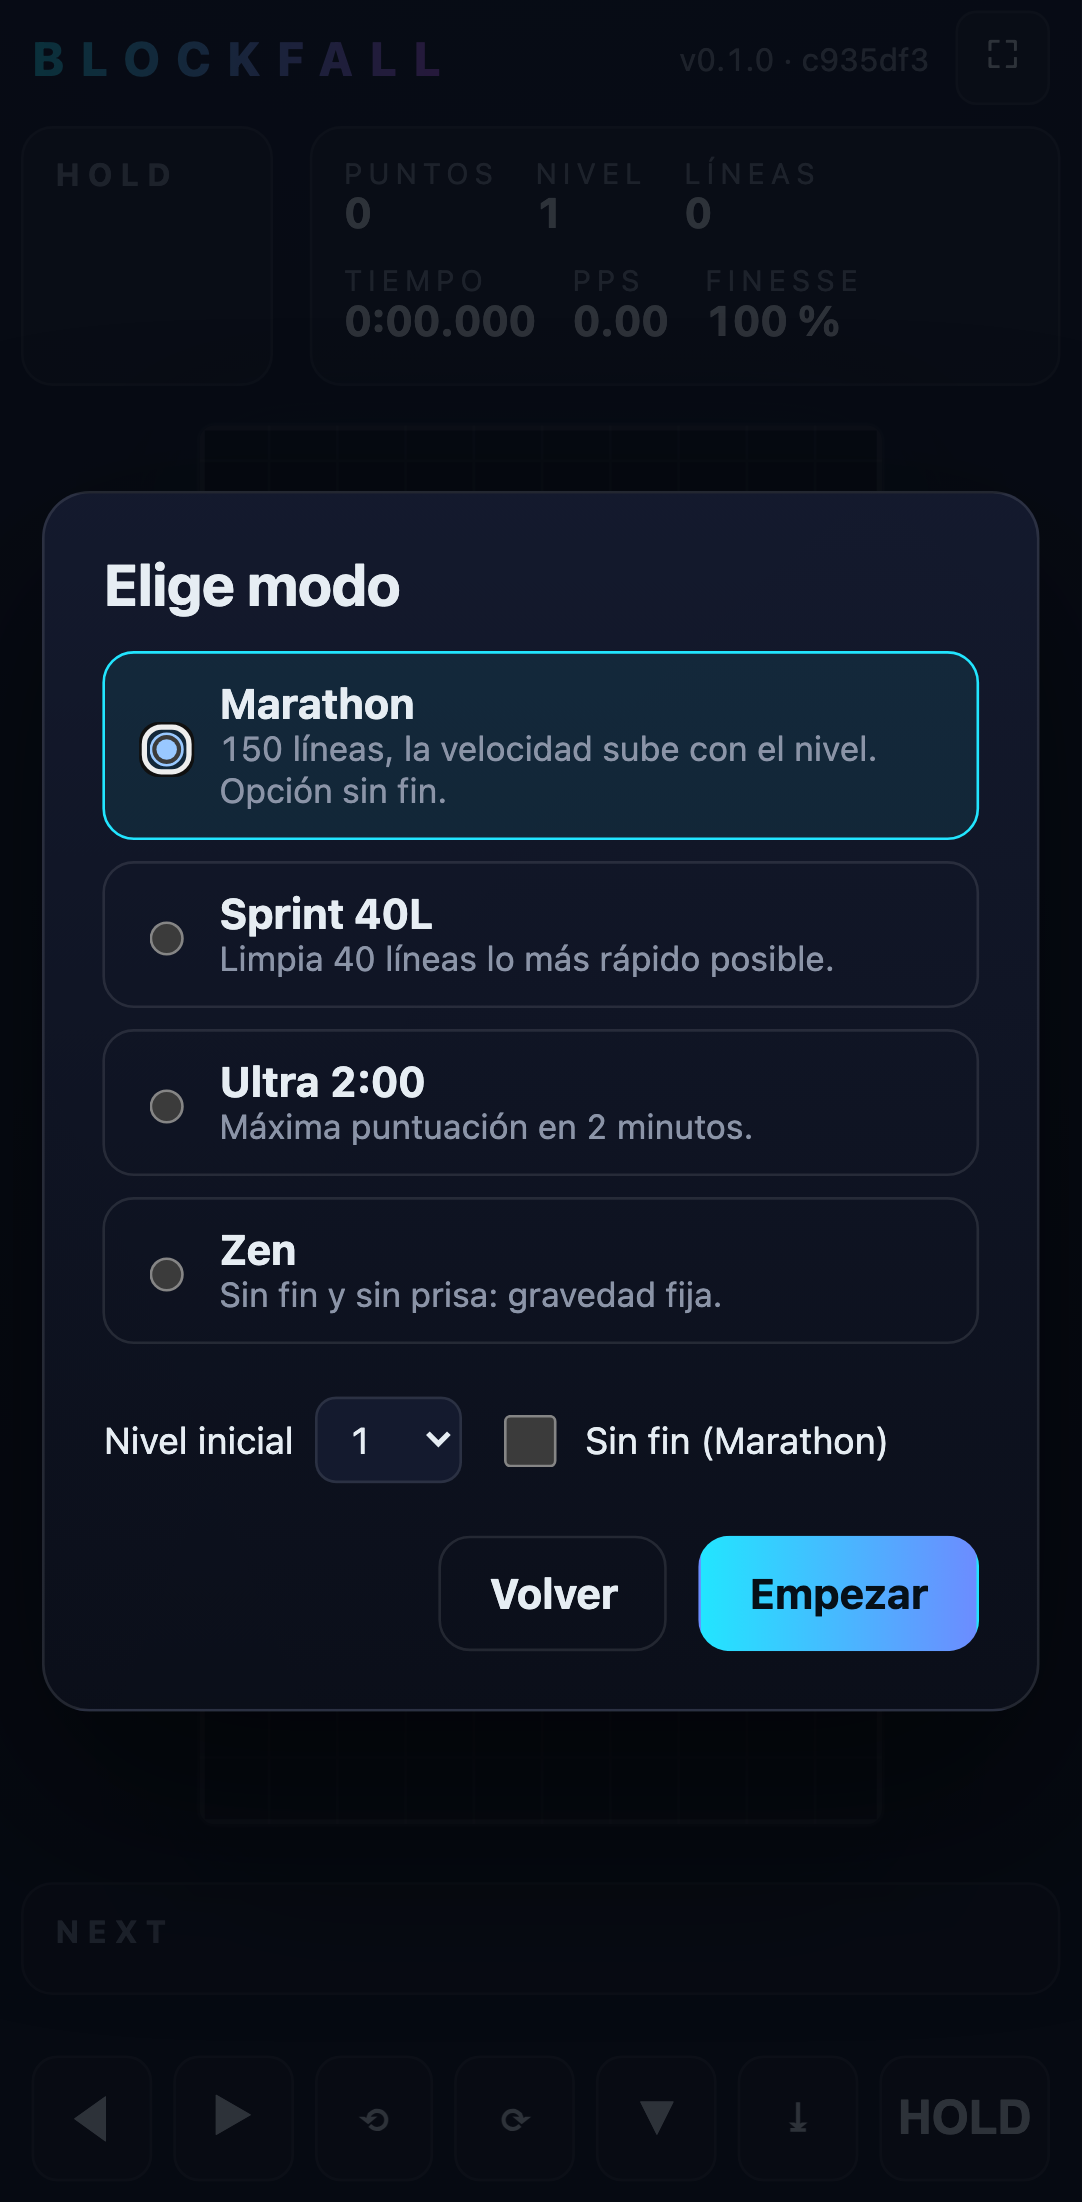
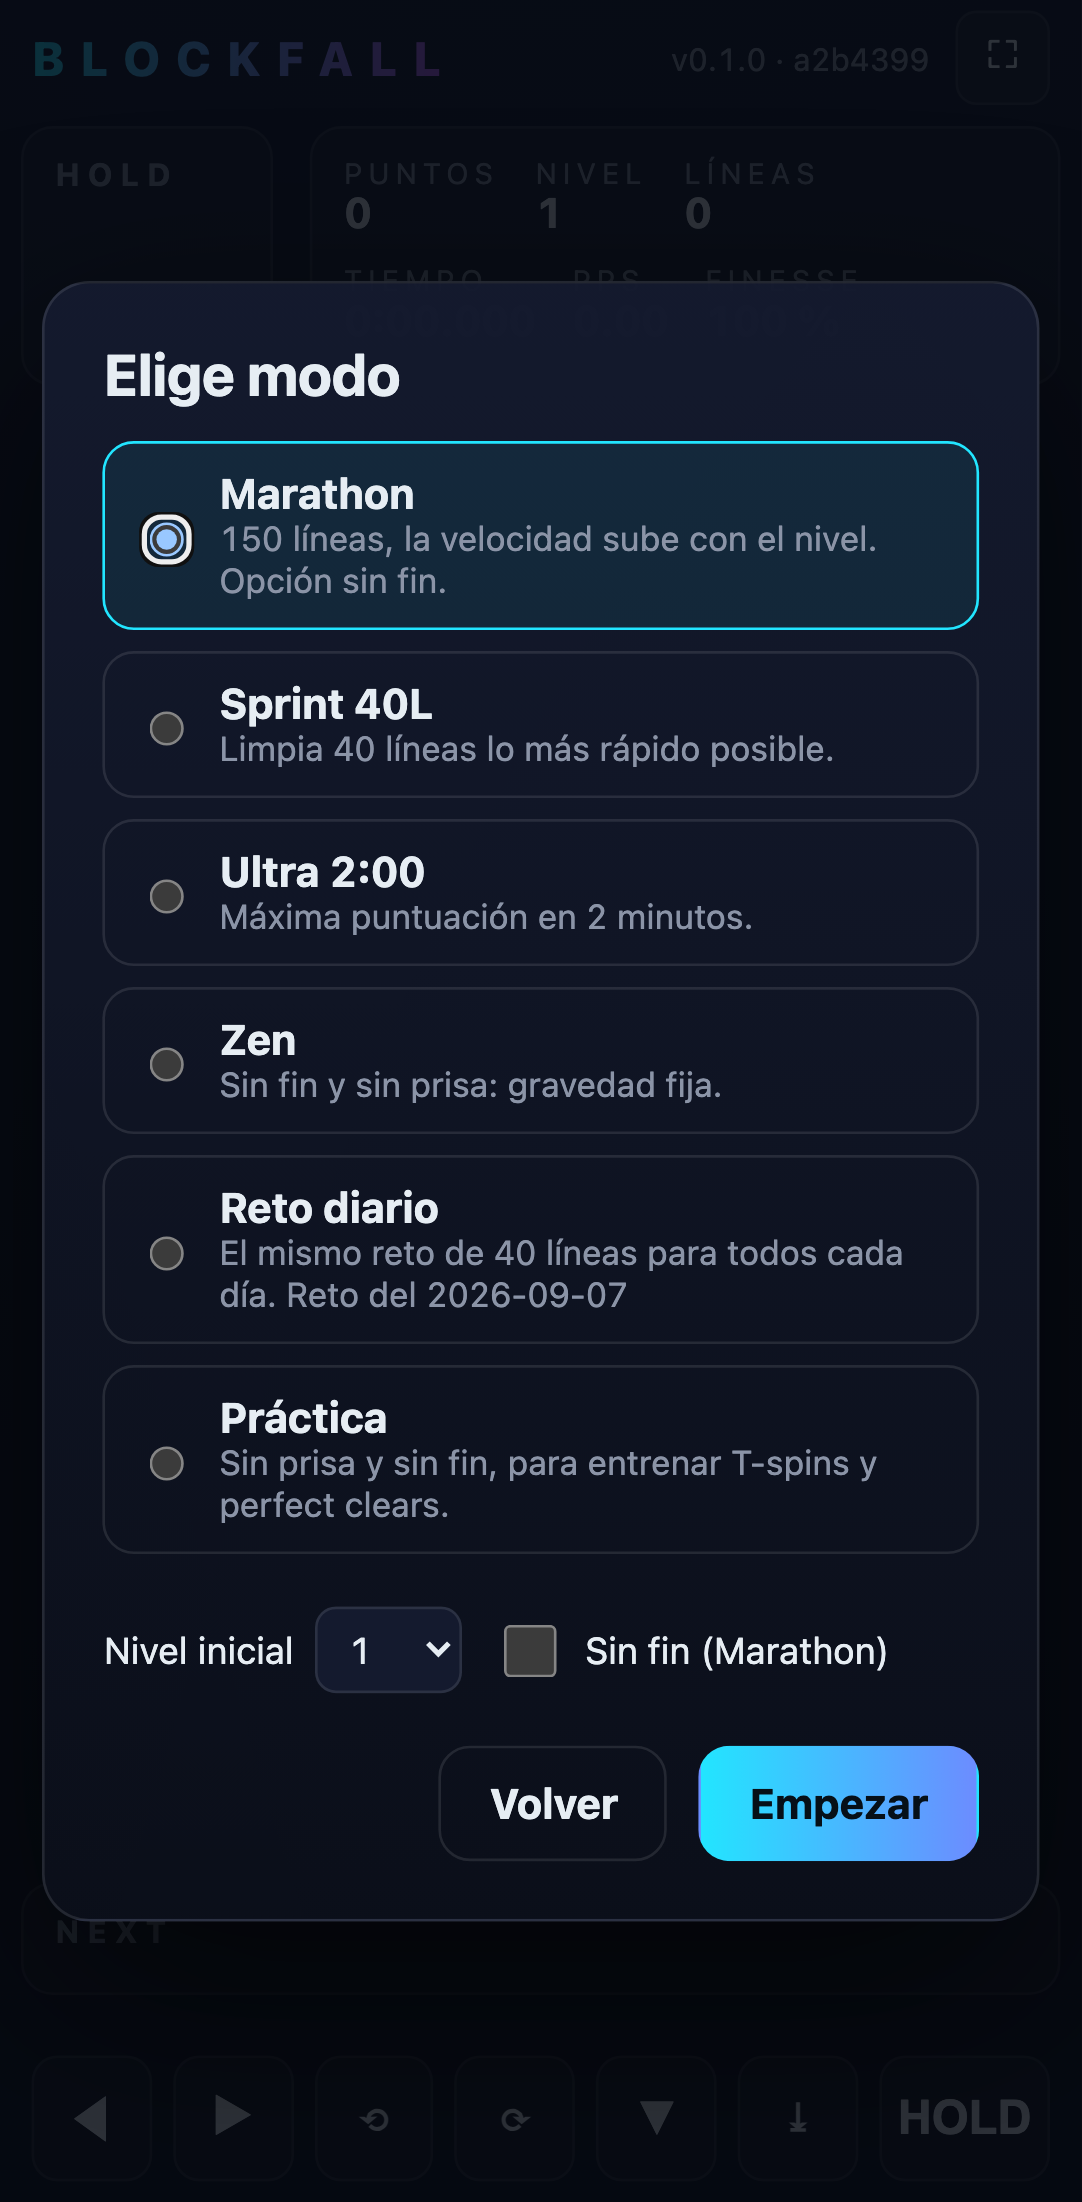
feat: modos de reto diario y práctica
- El reto diario deriva su semilla de la fecha local, así que todo el mundo juega
  la misma partida de 40 líneas ese día sin necesidad de servidor
- El modo práctica es sin fin y con velocidad constante, para entrenar giros
- Las opciones de nivel inicial y sin fin se ocultan en los modos que fijan reglas
- Las etiquetas de los modos pasan por el catálogo de traducciones

Claude-Session: https://claude.ai/code/session_012Xf4twi56DXxH5ehRwbYpP

diff --git a/src/app/app.ts b/src/app/app.ts
@@ -1,5 +1,5 @@
 import { Game } from '@/core/game';
-import { MODE_LABELS, type GameMode } from '@/core/rules';
+import { ALL_MODES, dailyLabel, dailySeed, type GameMode } from '@/core/rules';
 import type { GameEvent, RuleSet } from '@/core/types';
 import type { InputAction } from '@/game/handling';
 import { GameLoop } from '@/game/loop';
@@ -174,7 +174,11 @@ export class App {
       softDropFactor: st.rules.softDropFactor,
       ...(mode === 'sprint' ? {} : { lineClearDelayMs: st.rules.lineClearDelayMs }),
     };
-    const seed = seedOverride ?? (Date.now() ^ Math.floor(Math.random() * 0xffffffff)) >>> 0;
+    const seed =
+      seedOverride ??
+      (mode === 'daily'
+        ? dailySeed()
+        : (Date.now() ^ Math.floor(Math.random() * 0xffffffff)) >>> 0);
     this.session?.releaseAll();
     this.session = new Session({
       mode,
@@ -363,7 +367,7 @@ export class App {
     const row = (label: string, value: string): HTMLElement =>
       h('div', { className: 'result-row' }, h('span', {}, label), h('strong', {}, value));
     body.append(
-      row(t('results.mode'), MODE_LABELS[s.mode]),
+      row(t('results.mode'), t(`modes.${s.mode}`)),
       row(t('records.points'), state.score.toLocaleString(getLocale())),
       row(t('records.lines'), String(state.lines)),
       row(t('records.level'), String(state.level)),
@@ -557,26 +561,25 @@ export class App {
     const st = this.store.settings;
     const list = byId('mode-list');
     clear(list);
-    const modes: GameMode[] = ['marathon', 'sprint', 'ultra', 'zen'];
-    const descriptions: Record<GameMode, string> = {
-      marathon: t('modes.marathon.desc'),
-      sprint: t('modes.sprint.desc'),
-      ultra: t('modes.ultra.desc'),
-      zen: t('modes.zen.desc'),
-    };
+    const modes = ALL_MODES;
+    const describe = (mode: GameMode): string =>
+      mode === 'daily'
+        ? `${t('modes.daily.desc')} ${t('daily.today', { d: dailyLabel() })}`
+        : t(`modes.${mode}.desc`);
     for (const mode of modes) {
       const input = h('input', { type: 'radio', name: 'mode', value: mode });
       input.checked = st.game.mode === mode;
       input.addEventListener('change', () => {
         this.store.updateSettings((x) => (x.game.mode = mode));
+        this.updateModeOptions();
       });
       list.append(
         h(
           'label',
           { className: 'mode-card' },
           input,
-          h('span', { className: 'mode-name' }, MODE_LABELS[mode]),
-          h('span', { className: 'mode-desc' }, descriptions[mode]),
+          h('span', { className: 'mode-name' }, t(`modes.${mode}`)),
+          h('span', { className: 'mode-desc' }, describe(mode)),
         ),
       );
     }
@@ -595,18 +598,25 @@ export class App {
     endless.addEventListener('change', () => {
       this.store.updateSettings((x) => (x.game.endless = endless.checked));
     });
+    this.updateModeOptions();
+  }
+
+  /** El reto diario y la práctica fijan sus propias reglas, así que sus opciones se ocultan. */
+  private updateModeOptions(): void {
+    const mode = this.store.settings.game.mode;
+    const fixed = mode === 'daily' || mode === 'practice';
+    byId('mode-options').hidden = fixed;
   }
 
   private buildRecords(): void {
     const root = byId('records-body');
     clear(root);
-    const modes: GameMode[] = ['marathon', 'sprint', 'ultra', 'zen'];
-    for (const mode of modes) {
+    for (const mode of ALL_MODES) {
       const list = this.store.highscores(mode);
       const table = h(
         'table',
         { className: 'records-table' },
-        h('caption', {}, MODE_LABELS[mode]),
+        h('caption', {}, t(`modes.${mode}`)),
         h(
           'thead',
           {},

diff --git a/src/core/rules.ts b/src/core/rules.ts
@@ -18,7 +18,7 @@ export const DEFAULT_RULES: RuleSet = {
   goal: { type: 'lines', lines: 150 },
 };
 
-export type GameMode = 'marathon' | 'sprint' | 'ultra' | 'zen';
+export type GameMode = 'marathon' | 'sprint' | 'ultra' | 'zen' | 'daily' | 'practice';
 
 export interface ModeOptions {
   readonly startLevel?: number;
@@ -57,6 +57,24 @@ export function rulesForMode(mode: GameMode, options: ModeOptions = {}): RuleSet
         gravityMode: 'fixed',
         goal: { type: 'none' },
       };
+    case 'daily':
+      // Mismo reto para todo el mundo cada día: 40 líneas con la semilla de la fecha.
+      return {
+        ...DEFAULT_RULES,
+        startLevel: 1,
+        levelCap: 15,
+        lineClearDelayMs: 0,
+        goal: { type: 'lines', lines: 40 },
+      };
+    case 'practice':
+      // Para entrenar T-spins y perfect clears sin presión de tiempo.
+      return {
+        ...DEFAULT_RULES,
+        startLevel: 1,
+        gravityMode: 'fixed',
+        levelCap: 1,
+        goal: { type: 'none' },
+      };
   }
 }
 
@@ -65,4 +83,36 @@ export const MODE_LABELS: Readonly<Record<GameMode, string>> = {
   sprint: 'Sprint 40L',
   ultra: 'Ultra 2:00',
   zen: 'Zen',
+  daily: 'Reto diario',
+  practice: 'Práctica',
 };
+
+export const ALL_MODES: readonly GameMode[] = [
+  'marathon',
+  'sprint',
+  'ultra',
+  'zen',
+  'daily',
+  'practice',
+];
+
+/**
+ * Semilla del reto diario: la misma para todo el mundo en la misma fecha local.
+ * Se deriva del día para que no haga falta ningún servidor.
+ */
+export function dailySeed(date = new Date()): number {
+  const key = `${date.getFullYear()}-${date.getMonth() + 1}-${date.getDate()}`;
+  let h = 0x811c9dc5;
+  for (let i = 0; i < key.length; i++) {
+    h ^= key.charCodeAt(i);
+    h = Math.imul(h, 0x01000193);
+  }
+  return h >>> 0;
+}
+
+/** Etiqueta legible de la fecha del reto diario. */
+export function dailyLabel(date = new Date()): string {
+  return `${date.getFullYear()}-${String(date.getMonth() + 1).padStart(2, '0')}-${String(
+    date.getDate(),
+  ).padStart(2, '0')}`;
+}

diff --git a/src/core/rules.test.ts b/src/core/rules.test.ts
@@ -1,5 +1,12 @@
 import { describe, expect, it } from 'vitest';
-import { DEFAULT_RULES, MODE_LABELS, rulesForMode } from './rules';
+import {
+  ALL_MODES,
+  DEFAULT_RULES,
+  MODE_LABELS,
+  dailyLabel,
+  dailySeed,
+  rulesForMode,
+} from './rules';
 
 describe('rulesForMode', () => {
   it('marathon: 150 líneas y tope 15; endless sin objetivo y tope 20', () => {
@@ -25,6 +32,29 @@ describe('rulesForMode', () => {
     expect(rulesForMode('marathon', { startLevel: 0 }).startLevel).toBe(1);
     expect(rulesForMode('marathon', { startLevel: 99 }).startLevel).toBe(20);
     expect(rulesForMode('zen').lockDelayMs).toBe(DEFAULT_RULES.lockDelayMs);
-    expect(Object.keys(MODE_LABELS)).toEqual(['marathon', 'sprint', 'ultra', 'zen']);
+    expect(Object.keys(MODE_LABELS)).toContain('marathon');
+  });
+});
+
+describe('modos nuevos', () => {
+  it('el reto diario usa la misma semilla todo el día y cambia al siguiente', () => {
+    const hoy = new Date(2026, 8, 7, 10, 0, 0);
+    const masTarde = new Date(2026, 8, 7, 23, 59, 0);
+    const manana = new Date(2026, 8, 8, 0, 1, 0);
+    expect(dailySeed(hoy)).toBe(dailySeed(masTarde));
+    expect(dailySeed(hoy)).not.toBe(dailySeed(manana));
+    expect(dailyLabel(hoy)).toBe('2026-09-07');
+  });
+
+  it('el reto diario son 40 líneas y la práctica no termina', () => {
+    expect(rulesForMode('daily').goal).toEqual({ type: 'lines', lines: 40 });
+    expect(rulesForMode('practice').goal).toEqual({ type: 'none' });
+    expect(rulesForMode('practice').gravityMode).toBe('fixed');
+    expect(rulesForMode('practice').levelCap).toBe(1);
+  });
+
+  it('todos los modos tienen etiqueta', () => {
+    for (const mode of ALL_MODES) expect(MODE_LABELS[mode]).toBeTruthy();
+    expect(ALL_MODES).toHaveLength(6);
   });
 });

diff --git a/src/ui/i18n.ts b/src/ui/i18n.ts
@@ -30,6 +30,15 @@ const es = {
   'modes.sprint.desc': 'Limpia 40 líneas lo más rápido posible.',
   'modes.ultra.desc': 'Máxima puntuación en 2 minutos.',
   'modes.zen.desc': 'Sin fin y sin prisa: gravedad fija.',
+  'modes.daily.desc': 'El mismo reto de 40 líneas para todos cada día.',
+  'modes.practice.desc': 'Sin prisa y sin fin, para entrenar T-spins y perfect clears.',
+  'modes.marathon': 'Marathon',
+  'modes.sprint': 'Sprint 40L',
+  'modes.ultra': 'Ultra 2:00',
+  'modes.zen': 'Zen',
+  'modes.daily': 'Reto diario',
+  'modes.practice': 'Práctica',
+  'daily.today': 'Reto del {d}',
   'hud.score': 'PUNTOS',
   'hud.level': 'NIVEL',
   'hud.lines': 'LÍNEAS',
@@ -121,6 +130,15 @@ const en: Record<MessageKey, string> = {
   'modes.sprint.desc': 'Clear 40 lines as fast as you can.',
   'modes.ultra.desc': 'Highest score in 2 minutes.',
   'modes.zen.desc': 'No end and no rush: fixed gravity.',
+  'modes.daily.desc': 'The same 40-line challenge for everyone each day.',
+  'modes.practice.desc': 'No rush and no end, to train T-spins and perfect clears.',
+  'modes.marathon': 'Marathon',
+  'modes.sprint': 'Sprint 40L',
+  'modes.ultra': 'Ultra 2:00',
+  'modes.zen': 'Zen',
+  'modes.daily': 'Daily challenge',
+  'modes.practice': 'Practice',
+  'daily.today': 'Challenge of {d}',
   'hud.score': 'SCORE',
   'hud.level': 'LEVEL',
   'hud.lines': 'LINES',

diff --git a/src/ui/hud.ts b/src/ui/hud.ts
@@ -7,12 +7,7 @@ import type { PaletteName } from '@/render/types';
 import { byId, byIdAs, clear, h } from './dom';
 import { getLocale, t } from './i18n';
 
-const MODE_LABEL: Readonly<Record<GameMode, string>> = {
-  marathon: 'Marathon',
-  sprint: 'Sprint 40L',
-  ultra: 'Ultra 2:00',
-  zen: 'Zen',
-};
+const modeLabel = (mode: GameMode): string => t(`modes.${mode}`);
 
 /** HUD en DOM: marcadores, hold/next, popups y anuncios accesibles. */
 export class Hud {
@@ -49,7 +44,7 @@ export class Hud {
   }
 
   setMode(mode: GameMode, rules: RuleSet): void {
-    this.modeLabel.textContent = MODE_LABEL[mode];
+    this.modeLabel.textContent = modeLabel(mode);
     const goal = rules.goal;
     this.goalLabel.textContent =
       goal.type === 'lines'

diff --git a/index.html b/index.html
@@ -137,7 +137,7 @@
           <div class="card">
             <h2 id="modes-heading" data-i18n="modes.title">Elige modo</h2>
             <div class="mode-list" id="mode-list"></div>
-            <div class="row">
+            <div class="row" id="mode-options">
               <label class="field inline"
                 ><span data-i18n="modes.startLevel">Nivel inicial</span
                 ><select id="start-level"></select

diff --git a/docs/STATUS.md b/docs/STATUS.md
@@ -6,7 +6,7 @@
 
 - **Fase:** 3 en curso; el renderer premium 3D ya está entregado
 - **Versión:** 0.1.0 · **Demo:** https://genialcode2077.github.io/tetris-html/ · **Repo:** https://github.com/genialcode2077/tetris-html
-- **Pruebas:** 115 unitarias y de propiedades + 37 de extremo a extremo (escritorio y móvil), todas en verde
+- **Pruebas:** 114 unitarias y de propiedades + 37 de extremo a extremo (escritorio y móvil), todas en verde
 - **Cobertura del motor:** 96 % de líneas, 85 % de ramas
 - **Rendimiento medido:** paso lógico 35 µs (0,4 % del presupuesto); render p95 1,0 ms en escritorio y 1,2 ms en móvil (6 % del presupuesto de 60 fps)
 - **Tamaño:** 23,0 KB de JavaScript comprimido y 2,9 KB de CSS; el modo 3D son 238 KB aparte que solo descarga quien lo activa
@@ -17,7 +17,7 @@
 ## Próximos pasos (orden)
 
 1. Tutorial interactivo de un minuto (mover, rotar, hold, hard drop, T-spin).
-2. Modos adicionales: práctica de T-spins y perfect clear, subida de basura, 20G, desafío diario.
+2. Posiciones preparadas en el modo práctica; subida de basura y 20G.
 3. Prueba manual con lector de pantalla y en un teléfono real (audio, gestos, vibración, modo 3D en GPU móvil).
 
 ## Bloqueos / decisiones pendientes del usuario
@@ -40,6 +40,7 @@
 - Las pruebas de extremo a extremo pasaron a tener su propio `tsconfig.json`, para poder usar tipos de Node sin contaminar el código del navegador.
 - Repeticiones: semilla más lista de pulsaciones. La prueba clave comprueba que reproducir una partida da el mismo tablero, la misma puntuación y las mismas piezas.
 - Traducción al inglés de toda la interfaz, con detección del idioma del navegador y cambio inmediato desde Ajustes.
+- Modos nuevos: reto diario con semilla derivada de la fecha (misma partida para todos, sin servidor) y modo práctica sin fin.
 
 ### 2026-09-07 · Sesión 2 (agente Claude) — validación y aplicación instalable
 

diff --git a/CHANGELOG.md b/CHANGELOG.md
@@ -25,6 +25,8 @@ Formato [Keep a Changelog](https://keepachangelog.com/es-ES/1.1.0/), versionado 
 
 - Traducción al inglés de toda la interfaz, con detección del idioma del navegador la primera vez y selector en Ajustes. El cambio es inmediato, sin recargar.
 
+- Dos modos nuevos: reto diario, con la misma partida para todo el mundo cada día porque la semilla sale de la fecha, y modo práctica, sin fin y con velocidad constante.
+
 ### Fixed
 - `backdrop-filter` en pantallas superpuestas provocaba bloqueos de segundos (F-006).
 - El viewport impedía ampliar la página, lo que incumple el criterio WCAG 1.4.4 (F-009).
